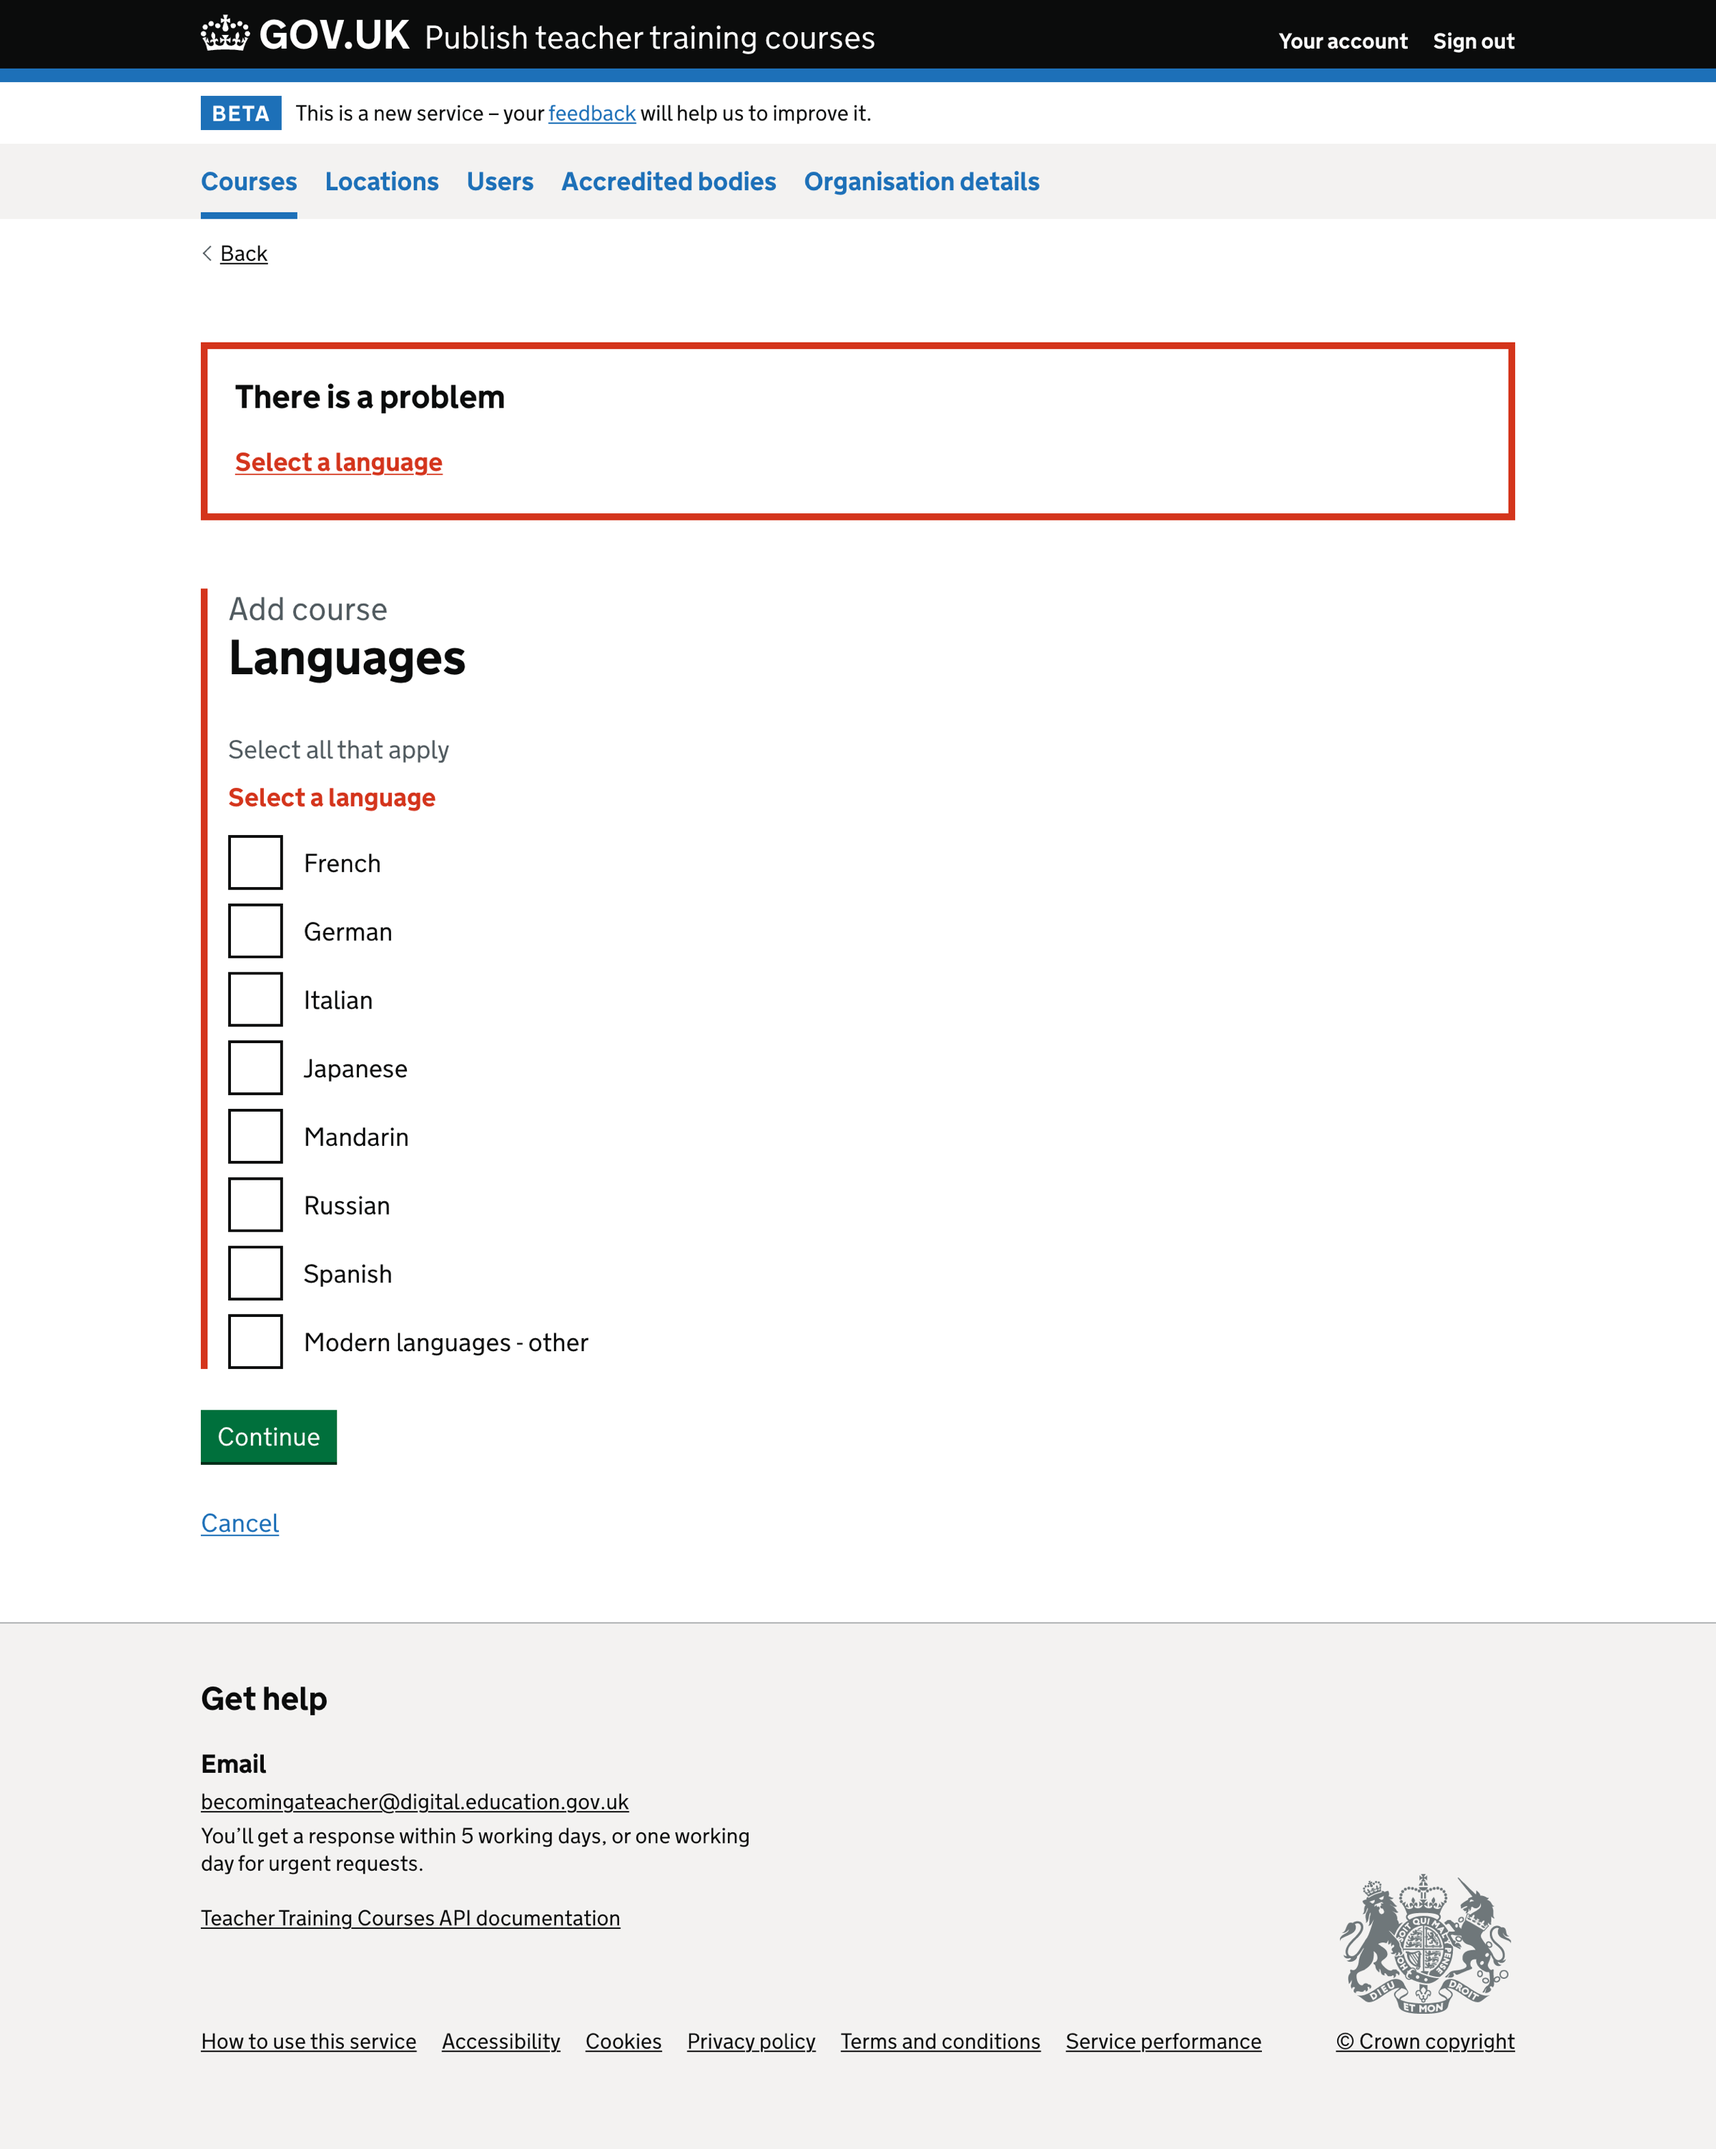
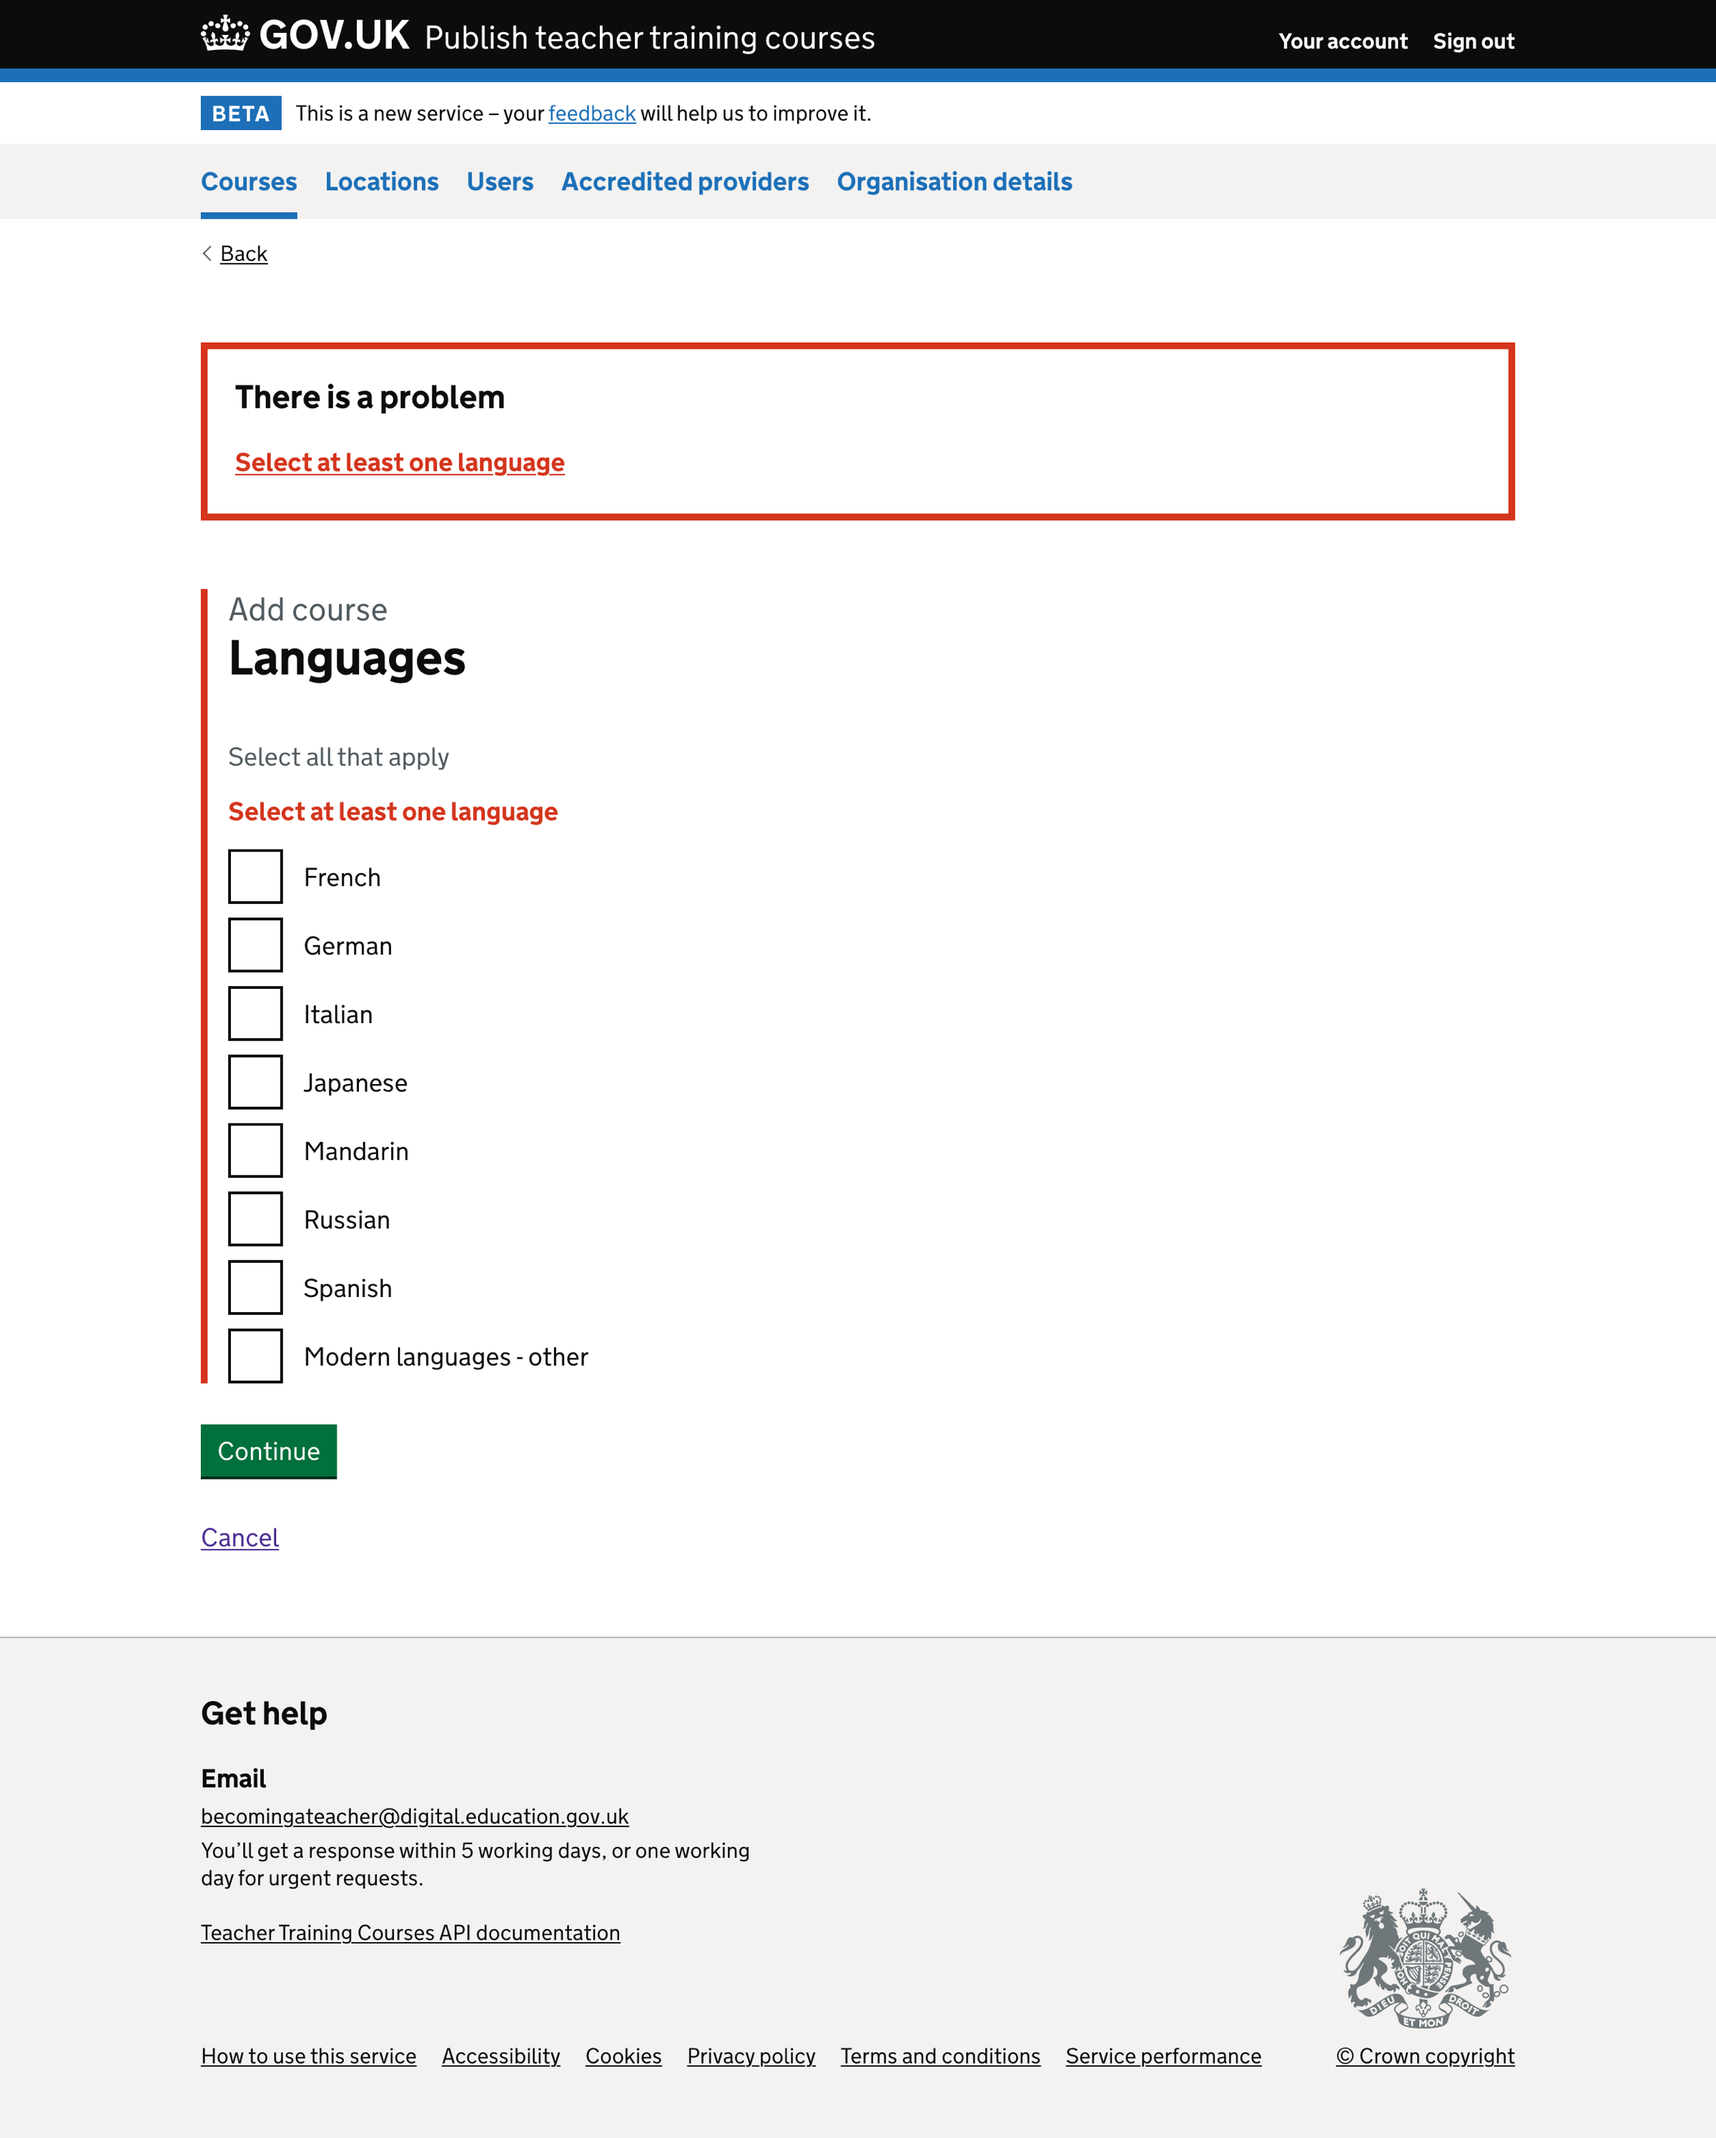
Update post: Error messages displayed in the add and edit course flows

diff --git a/app/posts/publish-teacher-training-courses/2023-02-09-updating-the-error-messages-displayed-in-the-add-and-edit-course-flows.md b/app/posts/publish-teacher-training-courses/2023-02-09-updating-the-error-messages-displayed-in-the-add-and-edit-course-flows.md
@@ -82,7 +82,7 @@ When a user selects ‘Modern languages’ as a first or second subject, we show
 
 If the user does not select a language, we show an error message:
 
-> Select a language
+> Select at least one language
 
 ![Languages error message](error-messages--languages.png "Languages error message")
 
